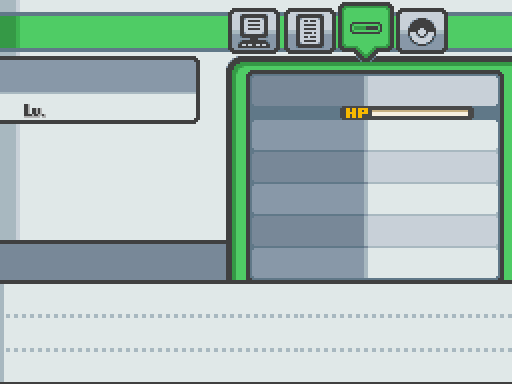
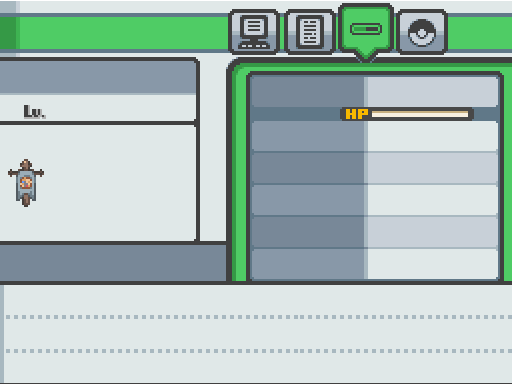
Tribes are shown on the SKILLS page of the Pokemon Summary

diff --git a/Plugins/Tectonic Graphics and UI/Menus/Summary.rb b/Plugins/Tectonic Graphics and UI/Menus/Summary.rb
@@ -853,6 +853,26 @@ class PokemonSummary_Scene
                           ev_color_shadow,])
         end
 
+        # Draw species
+        tribes = @pokemon.tribes
+        tribesX = 56
+        tribesY = 136
+        tribesWidth = 450
+        tribe_base   = MessageConfig.pbDefaultTextMainColor
+        tribe_shadow = MessageConfig.pbDefaultTextShadowColor
+        if tribes.length == 0
+            drawFormattedTextEx(overlay, tribesX, tribesY+32, tribesWidth, _INTL("None"), tribe_base, tribe_shadow)
+        elsif tribes.length == GameData::Tribe::DATA.keys.count / 2
+            drawFormattedTextEx(overlay, tribesX, tribesY+32, tribesWidth, _INTL("All"), tribe_base, tribe_shadow)
+        else
+            tribes.each_with_index do |tribe, index|
+                tribeName = getTribeName(tribe)
+                tribeY = tribesY + 32 * index
+                drawFormattedTextEx(overlay, tribesX, tribeY, tribesWidth, tribeName, tribe_base, tribe_shadow)
+            end
+        end
+        
+
         # Draw ability name and description
         ability = @pokemon.ability 
         @sprites["pokemon"].visible = false if @sprites["pokemon"]
